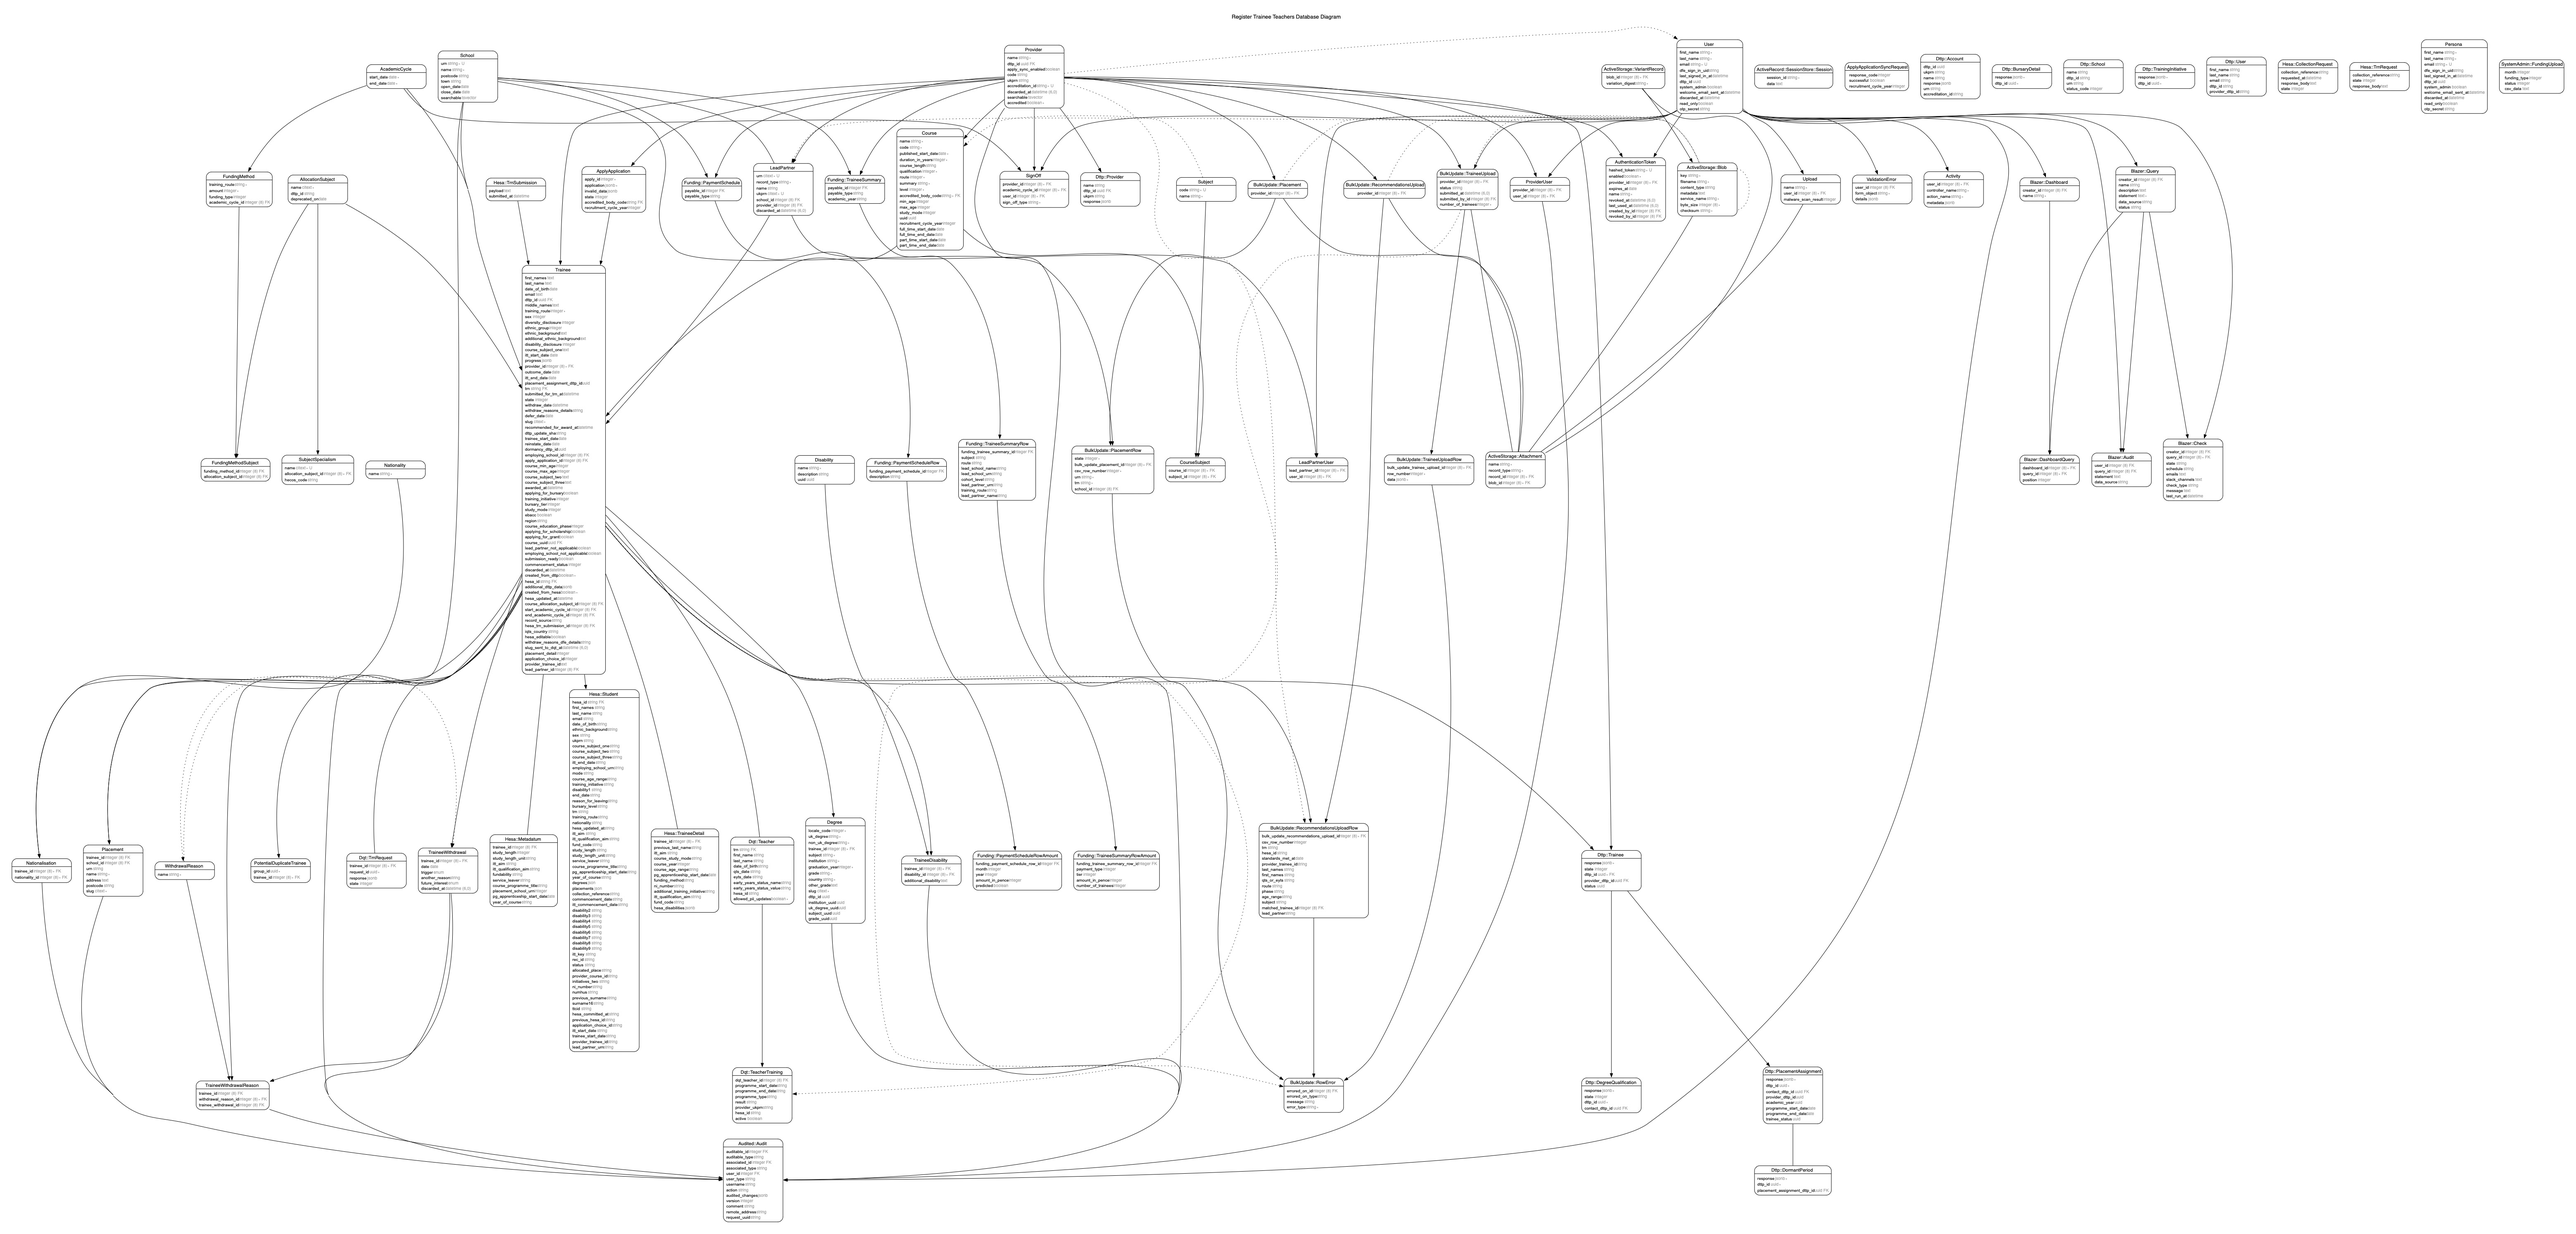
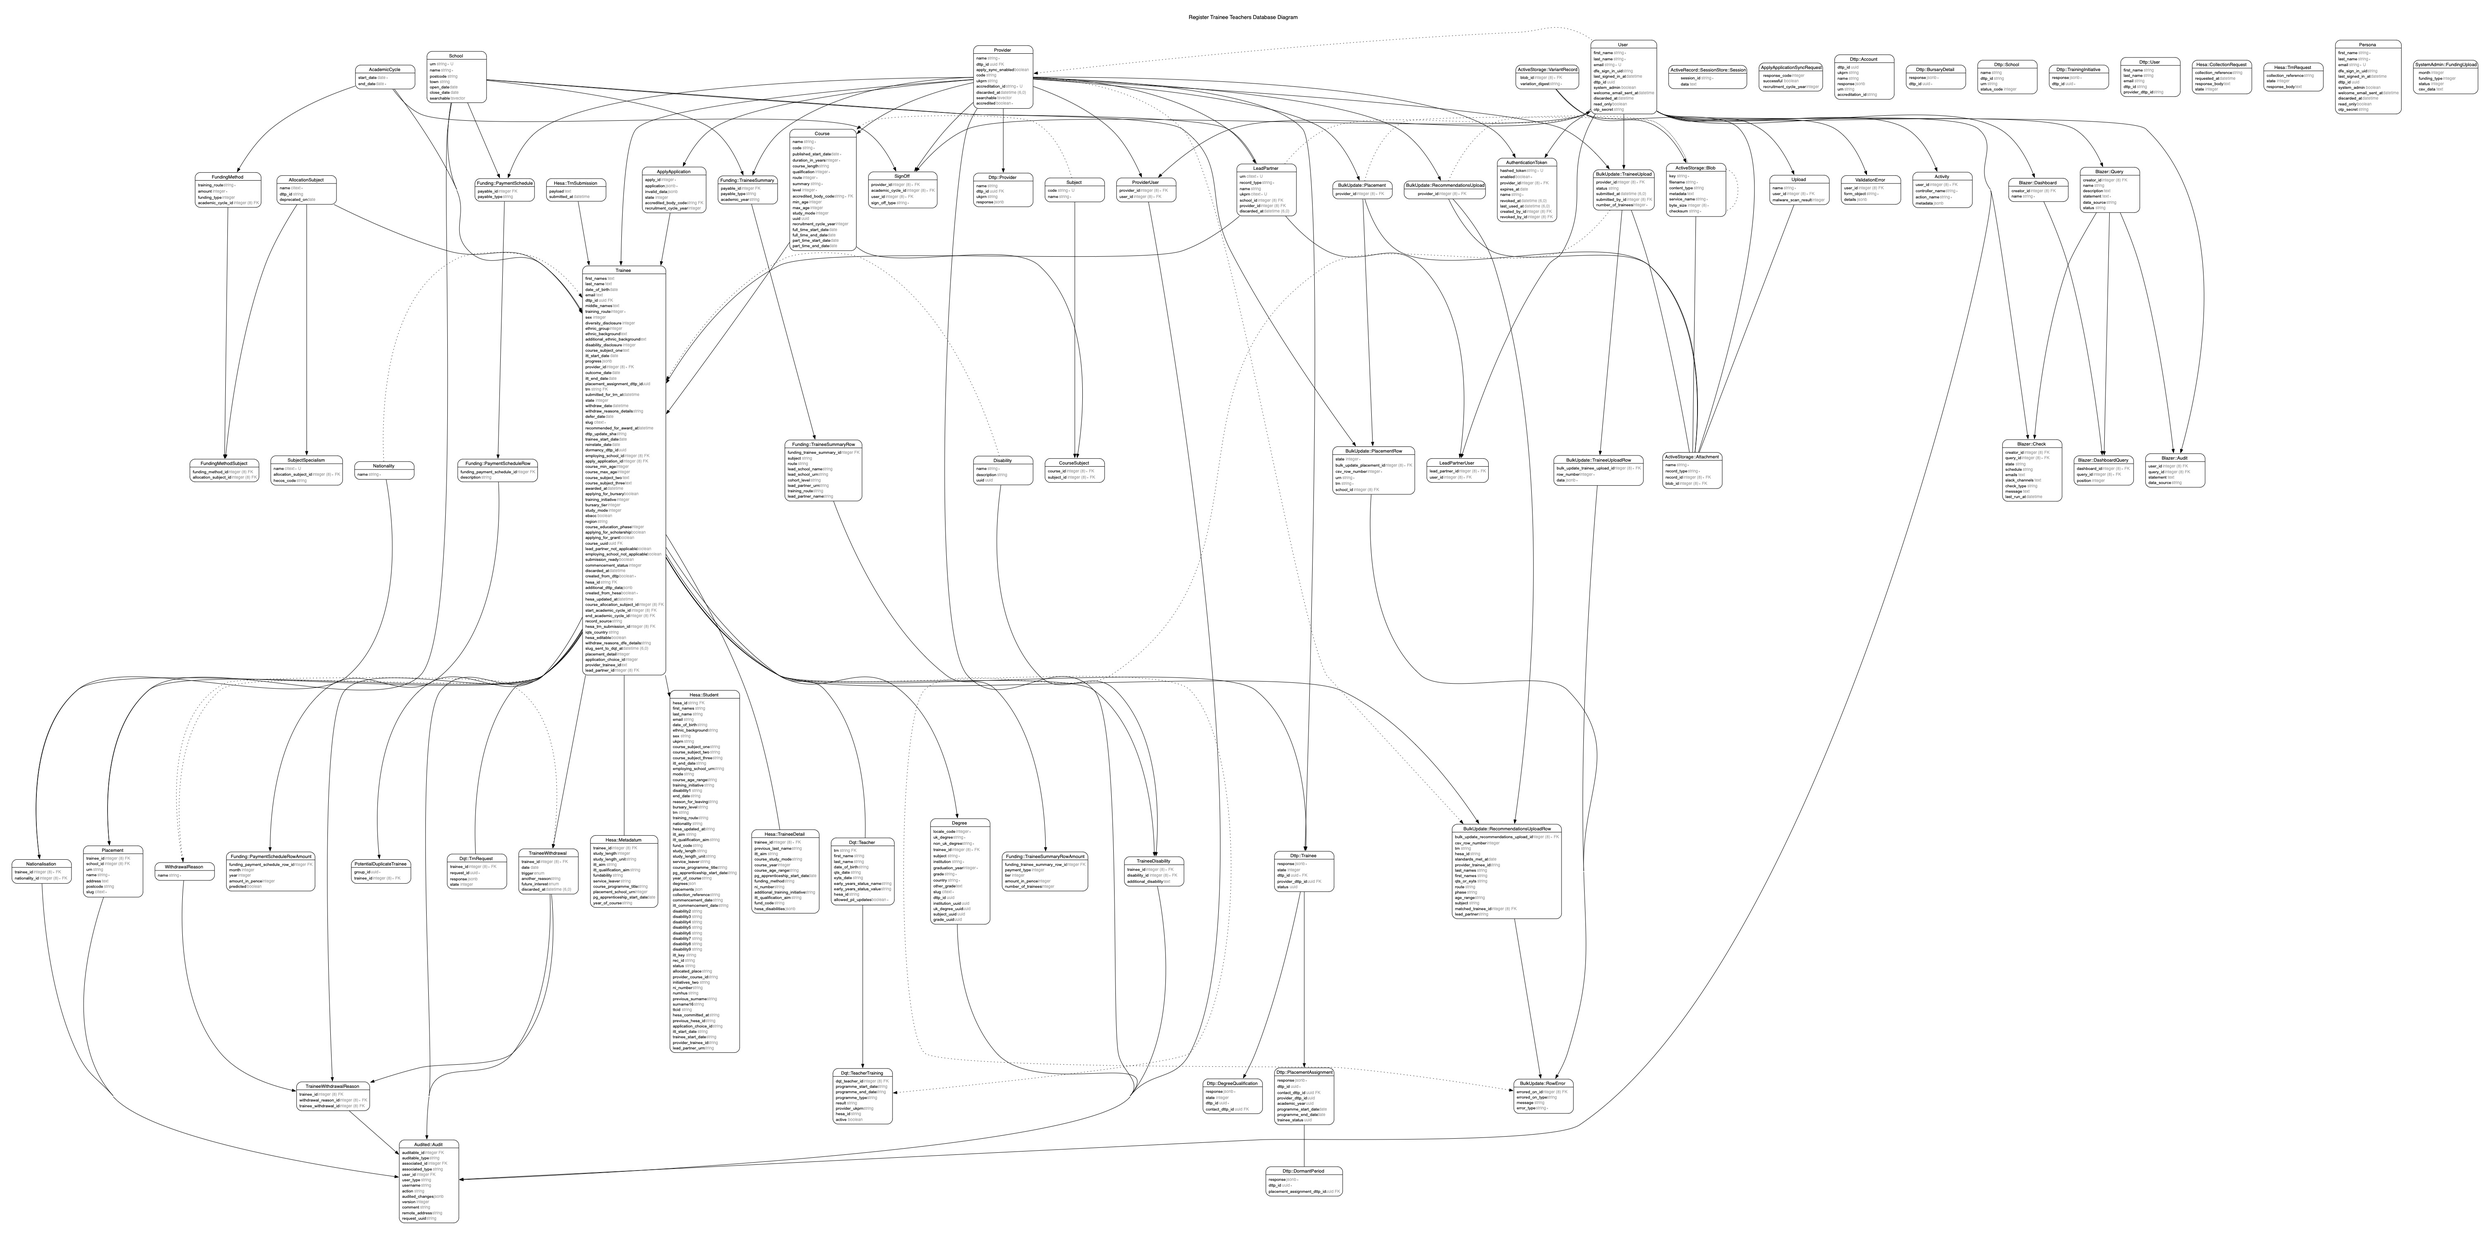
associate existing tokens with provider user

diff --git a/spec/models/authentication_token_spec.rb b/spec/models/authentication_token_spec.rb
@@ -3,10 +3,11 @@
 require "rails_helper"
 
 RSpec.describe AuthenticationToken do
-  let(:provider) { create(:provider) }
+  let(:user) { create(:user, :with_multiple_organisations) }
+  let(:provider) { user.providers.first }
 
   describe ".create_with_random_token" do
-    let(:token) { "Bearer #{described_class.create_with_random_token(provider_id: provider.id, name: 'Provider test token')}" }
+    let(:token) { "Bearer #{described_class.create_with_random_token(provider_id: provider.id, name: 'Provider test token', created_by: user)}" }
 
     subject(:authentication_token) { AuthenticationToken.authenticate(token) }
 
@@ -30,7 +31,7 @@ RSpec.describe AuthenticationToken do
 
     it { is_expected.to belong_to(:provider) }
 
-    it { is_expected.to belong_to(:created_by).optional }
+    it { is_expected.to belong_to(:created_by) }
 
     it { is_expected.to belong_to(:revoked_by).optional }
 
@@ -38,18 +39,16 @@ RSpec.describe AuthenticationToken do
   end
 
   describe ".revoke" do
-    let(:revoking_user) { provider.users.first }
+    subject(:authentication_token) { described_class.create(provider_id: provider.id, name: "Provider test token", created_by: user) }
 
-    subject(:authentication_token) { described_class.create(provider_id: provider.id, name: "Provider test token") }
-
-    before { subject.revoke(user: revoking_user) }
+    before { subject.revoke(user:) }
 
     it "revokes the token" do
       expect(subject.revoked?).to be(true)
     end
 
     it "associates the user who revoked the token" do
-      expect(subject.revoked_by).to eq(revoking_user)
+      expect(subject.revoked_by).to eq(user)
     end
 
     it "adds the revocation date for the token" do

diff --git a/app/models/authentication_token.rb b/app/models/authentication_token.rb
@@ -33,7 +33,7 @@
 
 class AuthenticationToken < ApplicationRecord
   belongs_to :provider
-  belongs_to :created_by, class_name: "User", optional: true
+  belongs_to :created_by, class_name: "User"
   belongs_to :revoked_by, class_name: "User", optional: true
 
   validates :hashed_token, presence: true, uniqueness: true
@@ -43,7 +43,7 @@ class AuthenticationToken < ApplicationRecord
     token = "#{Rails.env}_" + SecureRandom.hex(10)
     hashed_token = hash_token(token)
 
-    create(attributes.merge(hashed_token:))
+    create!(attributes.merge(hashed_token:))
     token
   end
 
@@ -61,6 +61,6 @@ class AuthenticationToken < ApplicationRecord
   end
 
   def revoked?
-    !revoked_at.nil?
+    revoked_at.present?
   end
 end

diff --git a/db/migrate/20250314141354_add_attributes_to_authetication_tokens.rb b/db/migrate/20250314141354_add_attributes_to_authetication_tokens.rb
@@ -8,6 +8,14 @@ class AddAttributesToAutheticationTokens < ActiveRecord::Migration[7.2]
       add_column :authentication_tokens, :last_used_at, :datetime
       add_reference :authentication_tokens, :created_by, foreign_key: { to_table: :users }
       add_reference :authentication_tokens, :revoked_by, foreign_key: { to_table: :users }
+
+      # Ensure existing tokens have a created_by user and name going forward
+
+      AuthenticationToken.find_each do |authentication_token|
+        provider = authentication_token.provider
+
+        authentication_token.update!(created_by: provider.users.kept.first, name: "Test token")
+      end
     end
   end
 end
